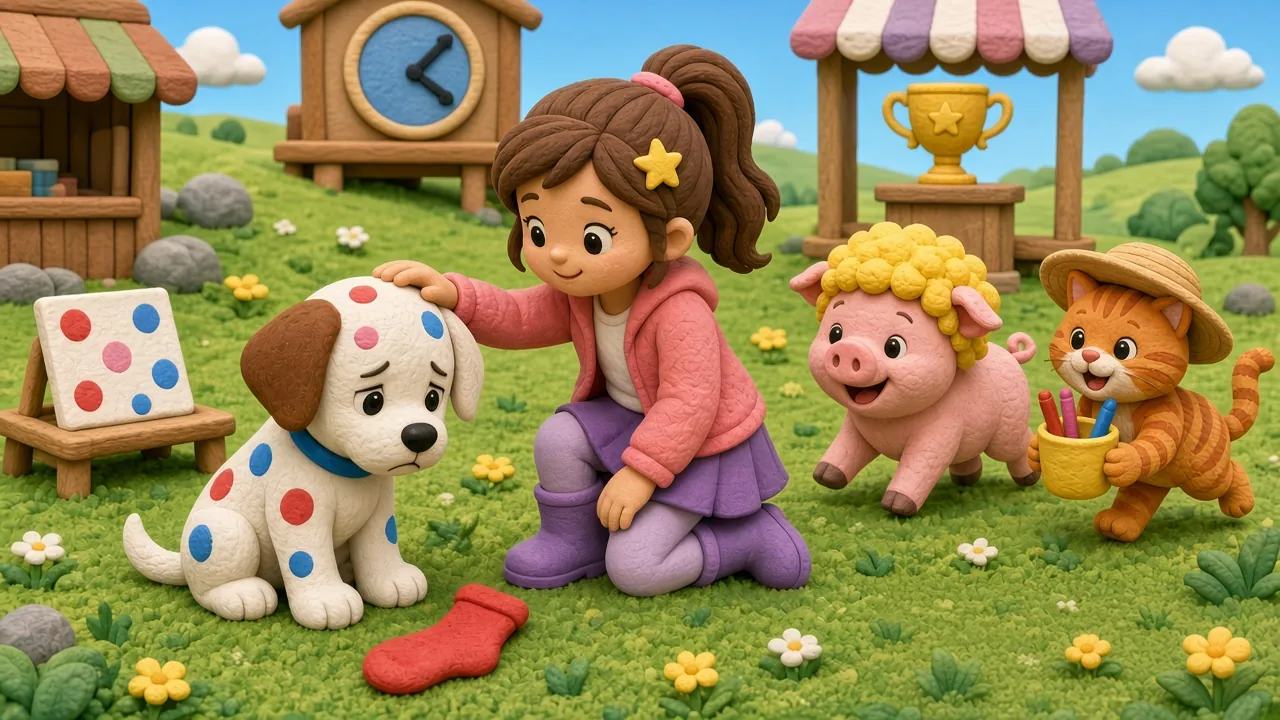
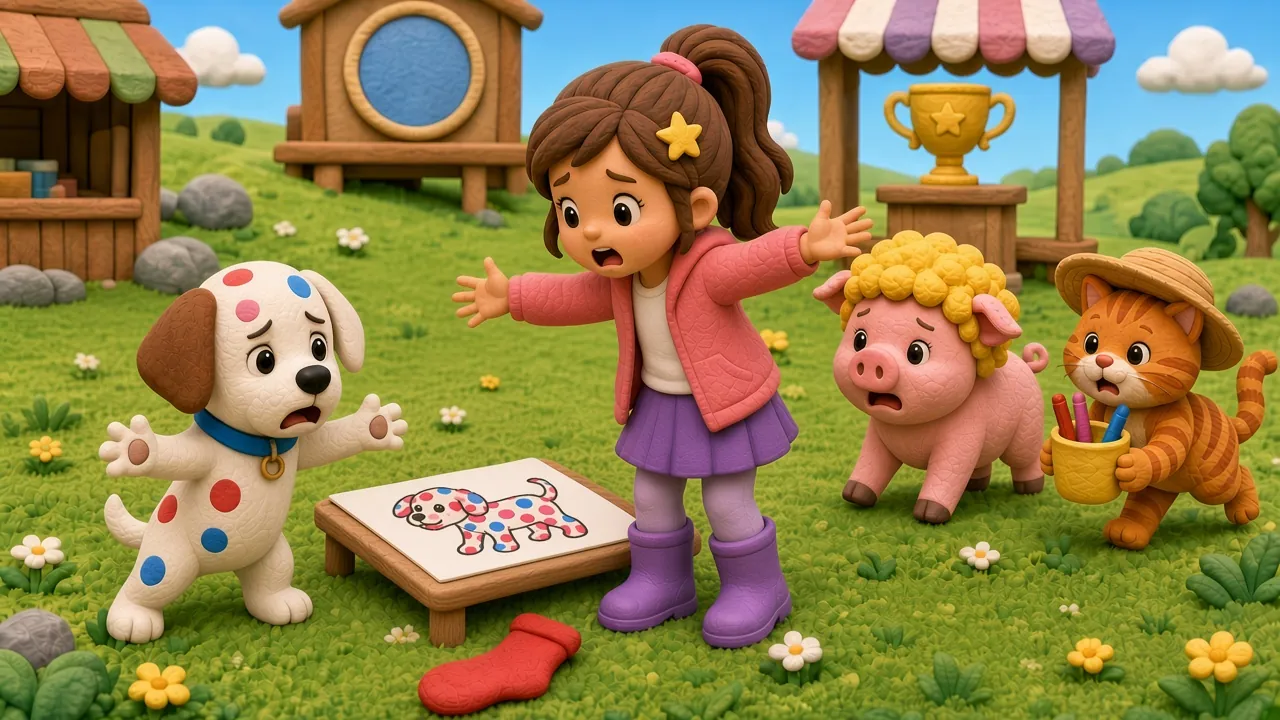
v0.6.39: Story 3 page 9 No time, page 10 Do not worry with new art

diff --git a/stories/a-lot-of-dots.md b/stories/a-lot-of-dots.md
@@ -72,18 +72,18 @@
 ---
 
 ### P09
-正文: Tick, tock! "Oh no! Not a lot of time!" cries Mia.（嘀嗒嘀嗒！米娅急得大叫：“糟了！时间不多了！”）
-主练句式: Not a lot of ___!
+正文: Tick, tock! "Oh no! No time! No time!" cries Mia.（嘀嗒嘀嗒！米娅急得大叫：“糟了！没时间了！没时间了！”）
+主练句式: No time!
 辅词: （无课纲词）
-知识点: 拟声 Tick, tock!；否定 Not a lot of…（a lot of 句式变体）；cries 表示“大叫”；情绪低谷
+知识点: 拟声 Tick, tock!；No time! 重复表示着急；cries 表示“大叫”；情绪低谷
 
 ---
 
 ### P10
-正文: "It is OK, **Pup**!" Figgy and the **cat** run to help.（“没关系，小狗！”菲吉和小猫跑来帮忙。）
-主练句式: It is OK!
-辅词: pup（第3章 第3课「字母 P · all out」）；cat（第3章 第2课「字母 C · find」）
-知识点: It is OK 安慰别人（米娅对小狗说）；and 连接两个主语；转折：伙伴来帮忙
+正文: "Do not worry!" Figgy and the **cat** run to help.（“别担心！”菲吉和小猫跑来帮忙。）
+主练句式: Do not worry!
+辅词: cat（第3章 第2课「字母 C · find」）
+知识点: Do not worry! 安慰别人（菲吉和小猫对米娅说）；and 连接两个主语；转折：伙伴来帮忙
 
 ---
 
@@ -205,8 +205,8 @@
 |---|---|---|---|---|
 | 第3章 第1课「词族肖像」 -ig | pig · fig · twig · wig | pig P03, P06；fig P03, P23, P24；twig P16；wig P03, P19 | Is it a ___? | P06, P22 |
 | 第3章 第2课「字母 C · find」 | cat · cab · cot · cup | cat P04, P10, P11, P15, P19；cab P13；cot P05, P07；cup P02, P05, P08, P11, P23 | Find the ___. | （P12 改写后全书未用） |
-| 第3章 第3课「字母 P · all out」 | pup · pen · pin · pad | pup P01, P06, P07, P10, P15, P16, P18, P20, P22；pen P04, P11, P19；pin P12；pad P06 | The ___ is out. / All the ___ are out. | P01, P12 / P11, P24 |
-| 第3章 第4课「好多好多」 | dot · hat · sock · rock | dot P08, P18, P22；hat P04, P21；sock P07, P20；rock P17 | A lot of ___! | P04, P08, P17, P21（P09 用了变体 Not a lot of） |
+| 第3章 第3课「字母 P · all out」 | pup · pen · pin · pad | pup P01, P06, P07, P15, P16, P18, P20, P22；pen P04, P11, P19；pin P12；pad P06 | The ___ is out. / All the ___ are out. | P01, P12 / P11, P24 |
+| 第3章 第4课「好多好多」 | dot · hat · sock · rock | dot P08, P18, P22；hat P04, P21；sock P07, P20；rock P17 | A lot of ___! | P04, P08, P17, P21 |
 
 ## 词表（16 个，按首次出现）
 pup · cup · pig · wig · fig · cat · hat · pen · cot · pad · sock · dot · pin · cab · twig · rock

diff --git a/README.md b/README.md
@@ -100,7 +100,7 @@ node scripts/genEnTimings.mjs
 - 更新弹层：每 10 秒带 cache-bust 拉取 `versions.json`，若有比已安装版本号更新的组，齿轮关闭时在设置外弹出这些版本行，顶部一个 **Update**（写入已确认版本、清缓存、保留进度、硬刷新）。已是最新则不显示弹层
 - PWA：可安装到主屏幕（`standalone`）；预缓存阅读器壳 + 故事 JSON。页级英文 mp3、插图 webp 和 `timings.json` 走运行时 Cache First，不进预缓存。地址带内容哈希 `?v=`，文件改了就会拉新资源，不必清缓存。翻页时后台预取后两页的图和英文 mp3；故事打开后在空闲时低并发把本章资源写入缓存（省流量模式跳过）。`versions.json` 用 Network First，以免挡住更新检测
 
-进度按本故事写入 `localStorage`。每次有意义的发布请在 `app/public/versions.json` 顶部追加 `{ id, version, date, summary }`（新条目用英文）。当前版本 **0.6.38**。
+进度按本故事写入 `localStorage`。每次有意义的发布请在 `app/public/versions.json` 顶部追加 `{ id, version, date, summary }`（新条目用英文）。当前版本 **0.6.39**。
 
 ## 安装到主屏幕（PWA）
 
